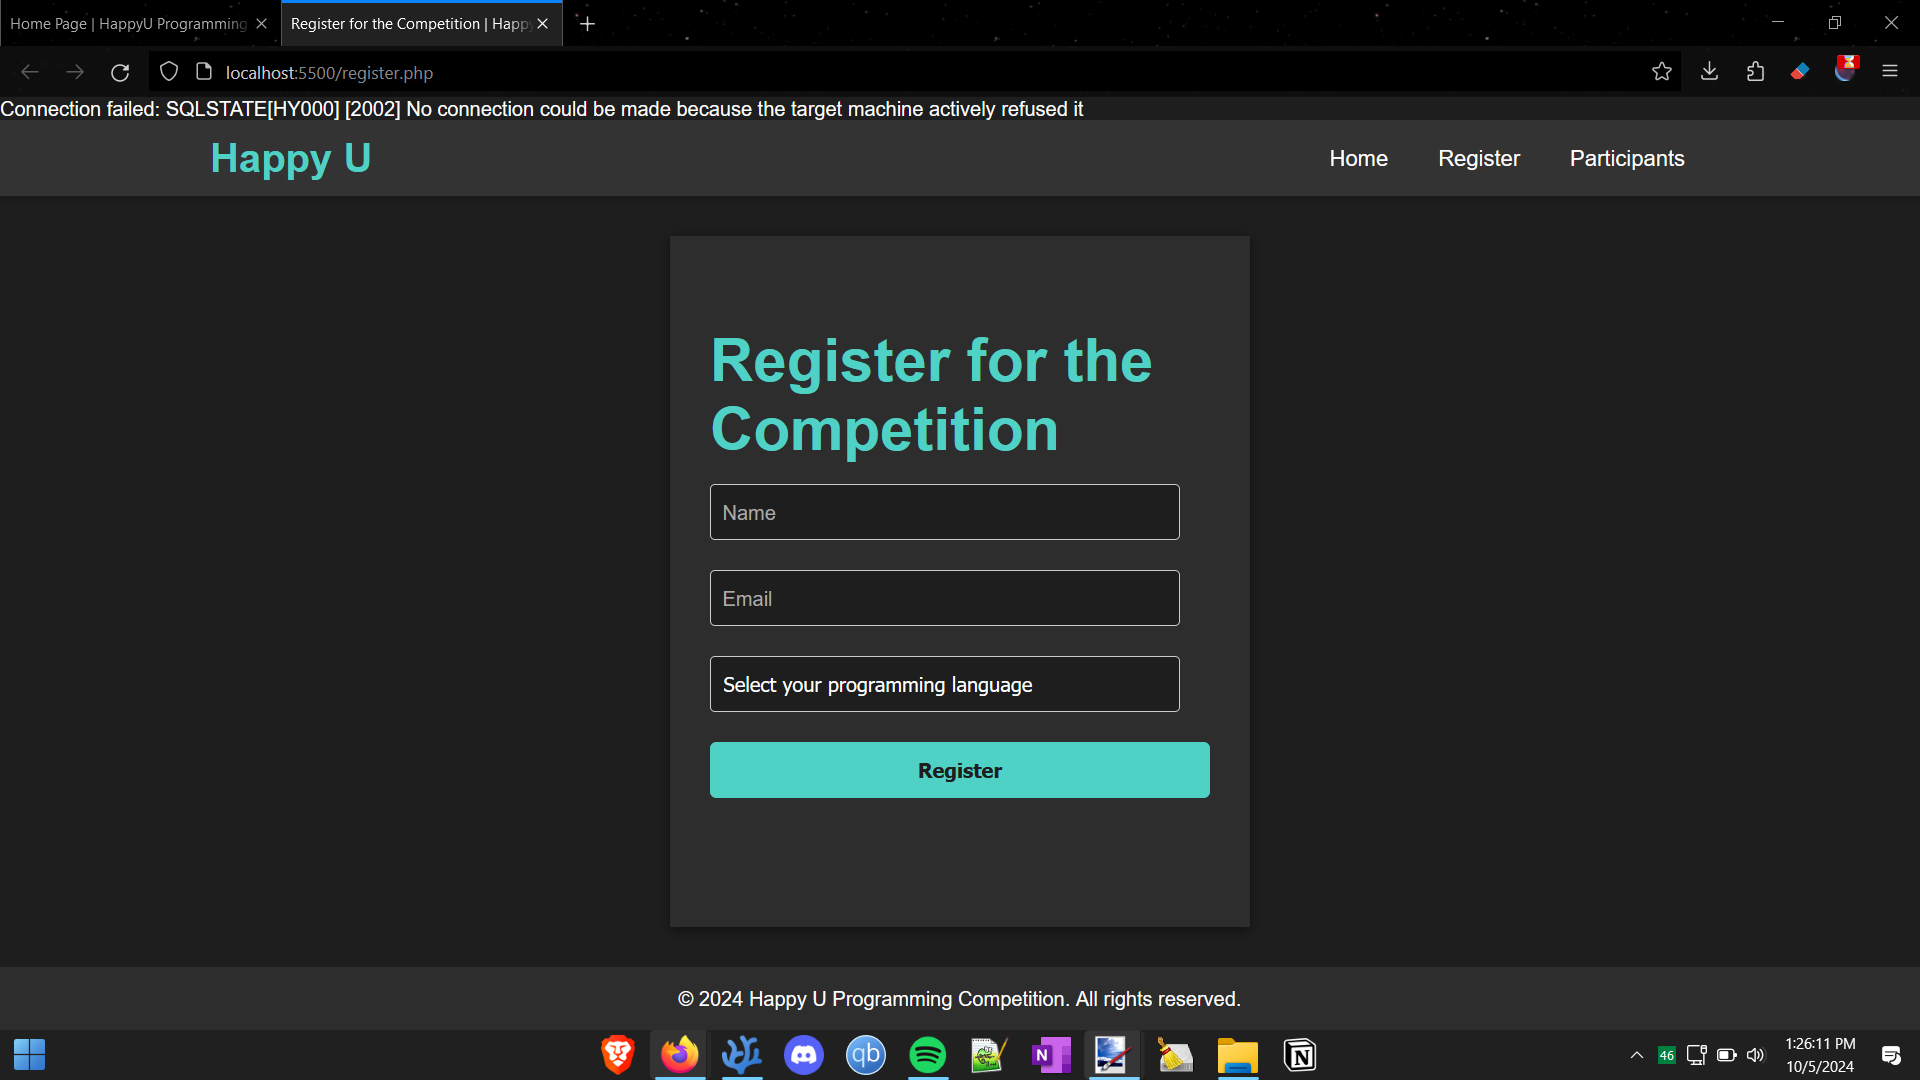
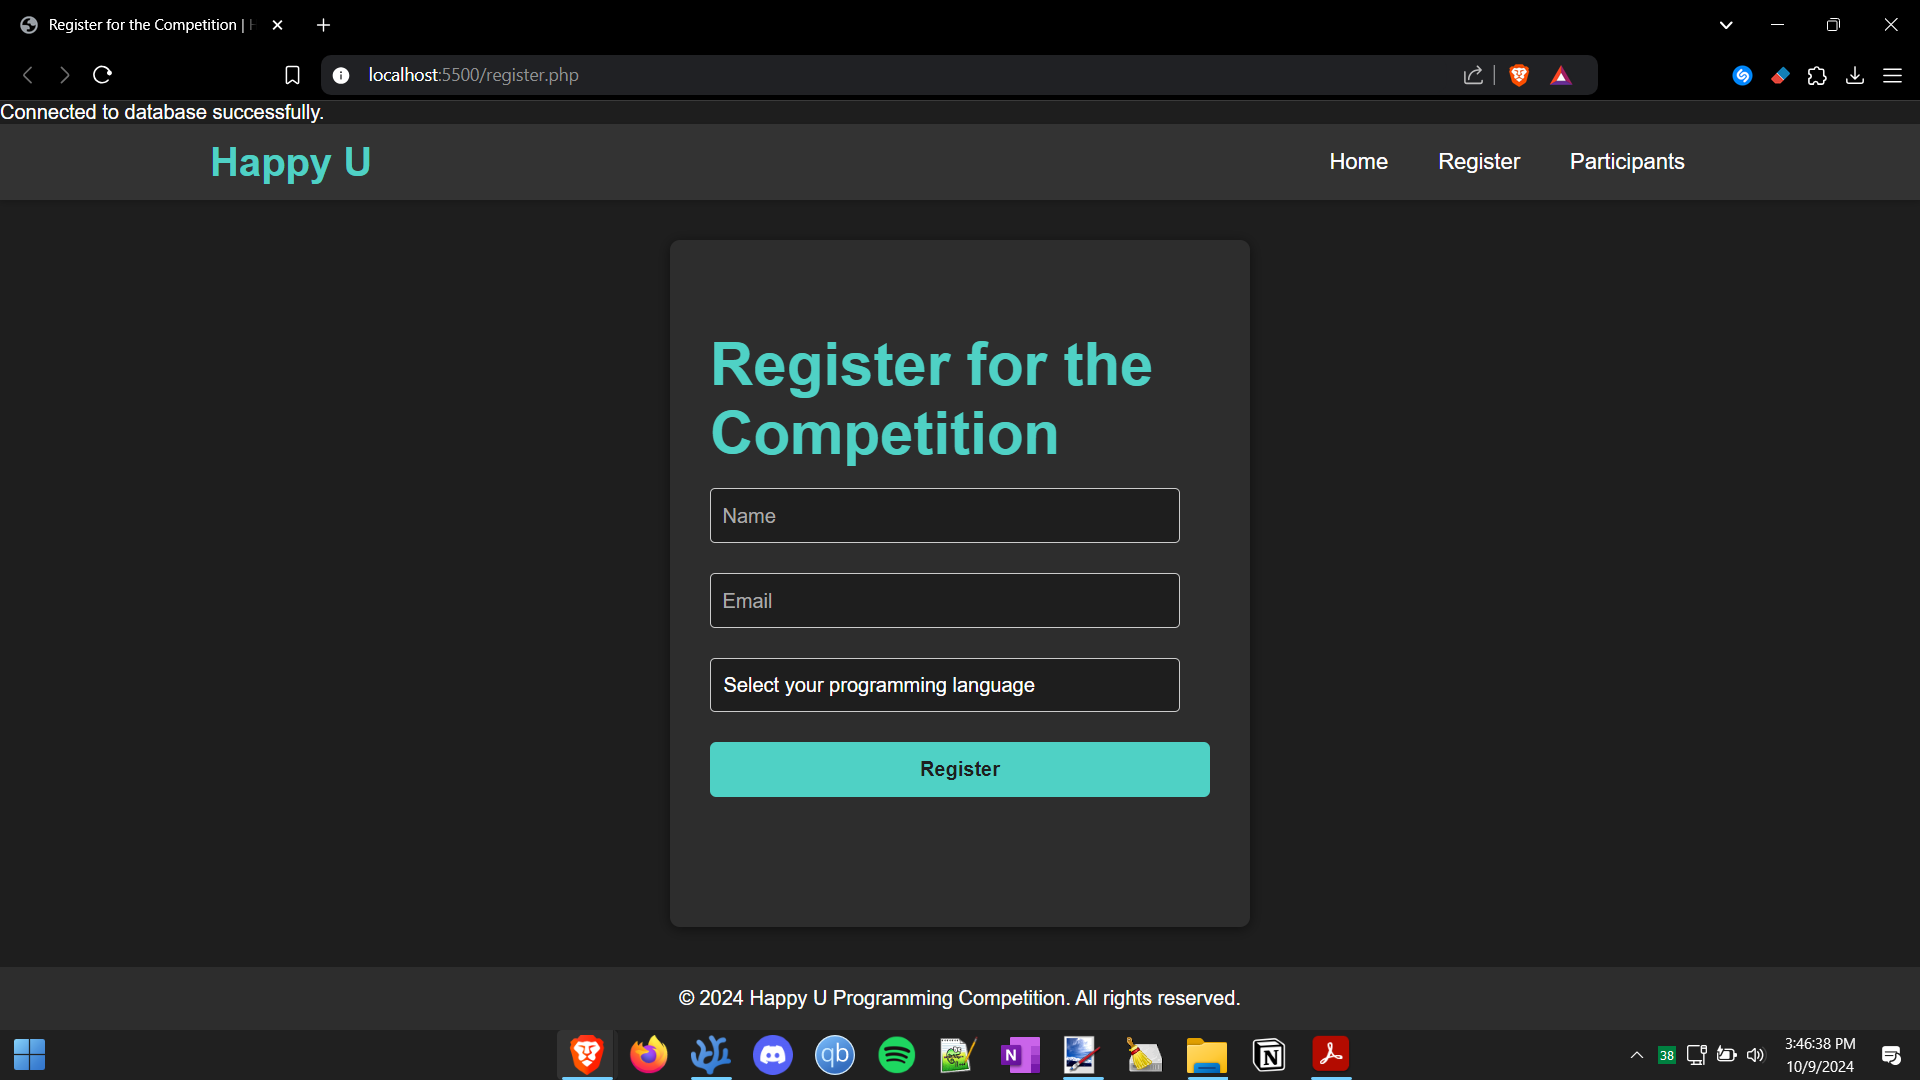
9th oct 2024 updates
Fixes
+ fixed db_connection.php not connecting to /database/database.db
+ changed table css format to suit reader
+ Added more screenshots

Pending Issues
+ Getting register.php to insert given form data to database.db

diff --git a/css/styles.css b/css/styles.css
@@ -388,26 +388,47 @@ button:hover {
 
 /* Table Styles */
 table {
-    width: 100%;
-    border-collapse: collapse;
-    margin: 2rem 0;
+    width: 100%; /* Use full width */
+    border-collapse: collapse; /* Remove gaps between borders */
+    margin: 2rem 0; /* Spacing around the table */
+    box-shadow: 0 2px 10px rgba(0, 0, 0, 0.5); /* Shadow for elevation */
+    border-radius: 8px; /* Rounded corners for the table */
+    overflow: hidden; /* Ensure rounded corners are visible */
 }
 
 th, td {
-    padding: 12px 15px;
-    border: 1px solid #ddd;
-    text-align: left;
+    padding: 12px 15px; /* Padding for cells */
+    border: 1px solid #ddd; /* Border color for cells */
+    text-align: left; /* Left-align text */
+    font-size: 1.1rem; /* Increase font size for better readability */
+    color: #ffffff; /* Set text color to white for better visibility */
 }
 
 th {
-    background-color: #4fd1c5;
-    color: white;
+    background-color: #4fd1c5; /* Header background color */
+    color: #1e1e1e; /* Darker text color for header */
+    font-weight: bold; /* Bold font for headers */
 }
 
 tr:nth-child(even) {
-    background-color: #f2f2f2;
+    background-color: #2d2d2d; /* Dark background for even rows */
 }
 
-tr:hover {
-    background-color: #ddd;
+tr:nth-child(odd) {
+    background-color: #1e1e1e; /* Slightly lighter background for odd rows */
+}
+
+/* Optional: Adding a footer for the table */
+tfoot {
+    background-color: #4fd1c5; /* Footer background color */
+    color: #1e1e1e; /* Darker footer text color */
+    font-weight: bold; /* Bold font for footer */
+}
+
+tfoot td {
+    padding: 10px 15px; /* Padding for footer cells */
+}
+.error-message {
+    color: red;
+    font-weight: bold;
 }

diff --git a/register.php b/register.php
@@ -2,33 +2,35 @@
 // Include the database connection
 include 'includes/db_connection.php';
 
-// Initialize variables
+// Initialize variables for form inputs
 $name = $email = $language = '';
 $success = '';
 $error = '';
 
 // Check if the form is submitted
-if (isset($_SERVER["REQUEST_METHOD"]) && $_SERVER["REQUEST_METHOD"] === "POST") {
-    // Get and sanitize input data
-    $name = htmlspecialchars($_POST['name']);
-    $email = htmlspecialchars($_POST['email']);
-    $language = htmlspecialchars($_POST['language']);
+if (isset($_POST['name']) && isset($_POST['email']) && isset($_POST['language'])) {
+    // Assign POST variables
+    $name = $_POST['name'];
+    $email = $_POST['email'];
+    $language = $_POST['language'];
 
-    // Prepare the SQL insert statement
-    $sql = "INSERT INTO students (name, email, programming_language) VALUES (:name, :email, :language)";
-    $stmt = $pdo->prepare($sql);
-
-    // Bind the form data
-    $stmt->bindParam(':name', $name);
-    $stmt->bindParam(':email', $email);
-    $stmt->bindParam(':language', $language);
-
-    // Execute and check if successful
     try {
+        // Using the database connection to insert data
+        $sql = "INSERT INTO students (name, email, programming_language) VALUES (:name, :email, :language)";
+        $stmt = $pdo->prepare($sql); // Prepare the SQL statement
+
+        // Bind the parameters
+        $stmt->bindParam(':name', $name);
+        $stmt->bindParam(':email', $email);
+        $stmt->bindParam(':language', $language);
+
+        // Execute the query
         $stmt->execute();
-        $success = "Registration successful!";
+
+        // Optional: Clear form inputs after successful submission
+        $name = $email = $language = '';
     } catch (PDOException $e) {
-        $error = "Failed to register: " . $e->getMessage();
+        $error = "Failed to register: " . $e->getMessage(); // Capture the error message
     }
 }
 ?>
@@ -44,37 +46,35 @@ if (isset($_SERVER["REQUEST_METHOD"]) && $_SERVER["REQUEST_METHOD"] === "POST") 
 </head>
 
 <body>
-    <!-- Header -->
+    <!-- Include Header -->
     <?php include 'includes/header.php'; ?>
 
-    <!-- Registration Form -->
+    <!-- Registration Form Section -->
     <main class="register-form fade-in">
         <h2>Register for the Competition</h2>
 
         <!-- Display success or error message -->
-        <?php if ($success): ?>
-            <p class="success-message"><?php echo $success; ?></p>
-        <?php elseif ($error): ?>
+        <?php if ($error): ?>
             <p class="error-message"><?php echo $error; ?></p>
         <?php endif; ?>
 
-        <form action="" method="POST">
+        <form action="register.php" method="POST">
             <div class="form-group">
-                <input type="text" name="name" required placeholder=" " id="name" />
+                <input type="text" name="name" required placeholder=" " id="name" value="<?php echo htmlspecialchars($name); ?>" />
                 <label for="name">Name</label>
             </div>
 
             <div class="form-group">
-                <input type="email" name="email" required placeholder=" " id="email" />
+                <input type="email" name="email" required placeholder=" " id="email" value="<?php echo htmlspecialchars($email); ?>" />
                 <label for="email">Email</label>
             </div>
 
             <div class="form-group">
                 <select name="language" id="language" required>
-                    <option value="" disabled selected>Select your programming language</option>
-                    <option value="python">Python</option>
-                    <option value="java">Java</option>
-                    <option value="c++">C++</option>
+                    <option value="" disabled <?php echo empty($language) ? 'selected' : ''; ?>>Select your programming language</option>
+                    <option value="python" <?php echo $language === 'python' ? 'selected' : ''; ?>>Python</option>
+                    <option value="java" <?php echo $language === 'java' ? 'selected' : ''; ?>>Java</option>
+                    <option value="c++" <?php echo $language === 'c++' ? 'selected' : ''; ?>>C++</option>
                 </select>
             </div>
 
@@ -82,7 +82,7 @@ if (isset($_SERVER["REQUEST_METHOD"]) && $_SERVER["REQUEST_METHOD"] === "POST") 
         </form>
     </main>
 
-    <!-- Footer -->
+    <!-- Include Footer -->
     <?php include 'includes/footer.php'; ?>
 
     <script src="js/script.js"></script> <!-- Link to your external JavaScript file -->

diff --git a/students.php b/students.php
@@ -1,13 +1,20 @@
 <?php
 // Include the database connection and header
 include 'includes/db_connection.php';
-include 'includes/header.php';
+
+// Initialize an empty array for students
+$students = [];
 
 // Fetch students from the database
-$sql = "SELECT name, email, programming_language, registration_date FROM students ORDER BY registration_date DESC";
-$stmt = $pdo->prepare($sql);
-$stmt->execute();
-$students = $stmt->fetchAll(PDO::FETCH_ASSOC);
+try {
+    $sql = "SELECT name, email, programming_language, registration_date FROM students ORDER BY registration_date DESC";
+    $stmt = $pdo->prepare($sql); // Use $pdo from the included db_connection.php
+    $stmt->execute();
+    $students = $stmt->fetchAll(PDO::FETCH_ASSOC);
+} catch (PDOException $e) {
+    // Handle database connection error
+    echo "Error fetching students: " . $e->getMessage();
+}
 ?>
 
 <!DOCTYPE html>
@@ -23,7 +30,8 @@ $students = $stmt->fetchAll(PDO::FETCH_ASSOC);
 <body>
     <!-- Header -->
     <?php include 'includes/header.php'; ?>
-    <main>
+
+    <main class="fade-in">
         <h2>Registered Participants</h2>
 
         <?php if (count($students) > 0): ?>
@@ -52,7 +60,8 @@ $students = $stmt->fetchAll(PDO::FETCH_ASSOC);
         <?php endif; ?>
     </main>
 
-    <?php include 'includes/footer.php'; ?> <!-- Include the footer -->
+    <!-- Include Footer -->
+    <?php include 'includes/footer.php'; ?>
 
     <script src="js/script.js"></script> <!-- Link to your external JavaScript file -->
 </body>

diff --git a/includes/db_connection.php b/includes/db_connection.php
@@ -1,12 +1,13 @@
 <?php
-$host = 'localhost'; // or the IP address of your database server
-$dbname = 'database'; // The database you created
-$username = 'your_username'; // e.g., 'root'
-$password = 'your_password'; // e.g., '' or 'root'
-
 try {
-    $pdo = new PDO("mysql:host=$host;dbname=$dbname", $username, $password);
+    // Correct the path to point to the 'database' directory
+    $pdo = new PDO('sqlite:' . __DIR__ . '/../database/database.db');
+    // Set error mode to exception
     $pdo->setAttribute(PDO::ATTR_ERRMODE, PDO::ERRMODE_EXCEPTION);
+
+    // If successful, output this message
+    echo "Connected to database successfully.";
 } catch (PDOException $e) {
-    echo 'Connection failed: ' . $e->getMessage();
+    // Catch any errors and display the exception message
+    echo "Error while connecting to the database: " . $e->getMessage();
 }

diff --git a/index.php b/index.php
@@ -14,7 +14,7 @@
      <!-- Header -->
      <?php include 'includes/header.php'; ?>
 
-     <div class="toc-hover-area"></div> <!-- Hover area for TOC -->
+     <div class="toc-hover-area"></div>
      <div id="toc" class="toc">
          <p>Table of Contents</p>
          <ul></ul> <!-- TOC will be populated here -->
@@ -117,9 +117,9 @@
      </main>
 
      <!-- Footer -->
-     <?php include 'includes/footer.php'; ?> <!-- Include the footer -->
+     <?php include 'includes/footer.php'; ?>
 
-     <script src="js/script.js"></script> <!-- Link to your external JavaScript file -->
+     <script src="js/script.js"></script>
  </body>
 
  </html>

diff --git a/README.md b/README.md
@@ -36,6 +36,7 @@ This project is a website for the "Program the Future" programming competition h
 │   └── styles.css               # Global styles for the website
 │
 ├── /database
+│   ├── database.sql             # Contains navigation bar (included on all pages)
 │   └── database.db              # Database of registered student
 │
 ├── /includes
